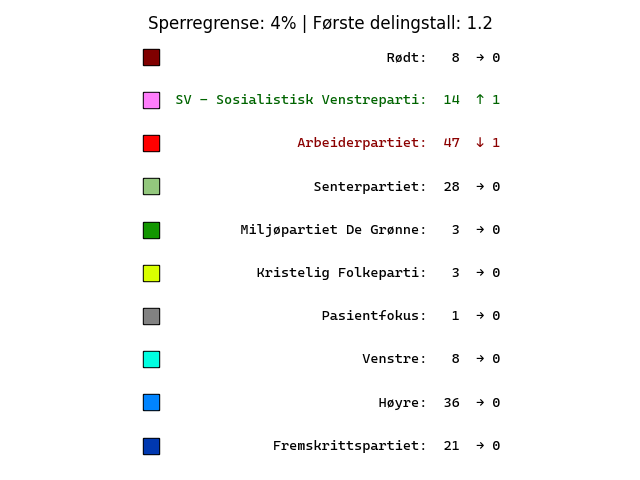
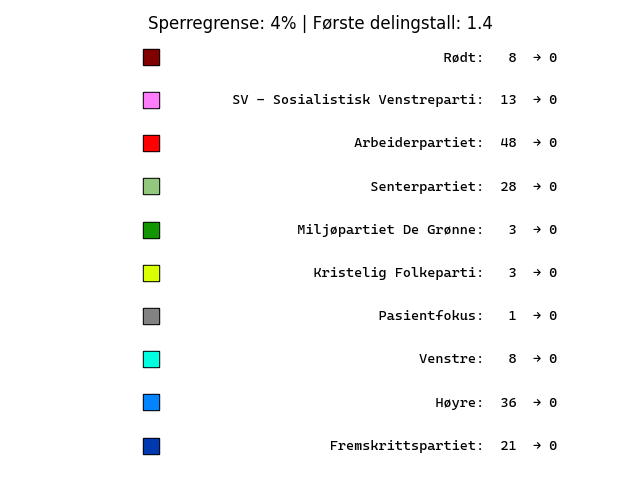
Small plotting change

diff --git a/election.py b/election.py
@@ -603,7 +603,7 @@ class Norway:
                 textcolor = "black"
             plt.plot([0], [-row], marker = "s", color = "#000000", markersize = 11)
             plt.plot([0], [-row], marker = "s", color = color, markersize = 10)
-            plt.text(0, -row - 0.1, f"{partyname:>33s}: {seats:>3d}  {marker} {abs(diff)}",
+            plt.text(0, -row - 0.1, f"{partyname:>40s}: {seats:>3d}  {marker} {abs(diff)}",
                      fontfamily = "Cascadia Mono", color = textcolor)
             row += 1
 
